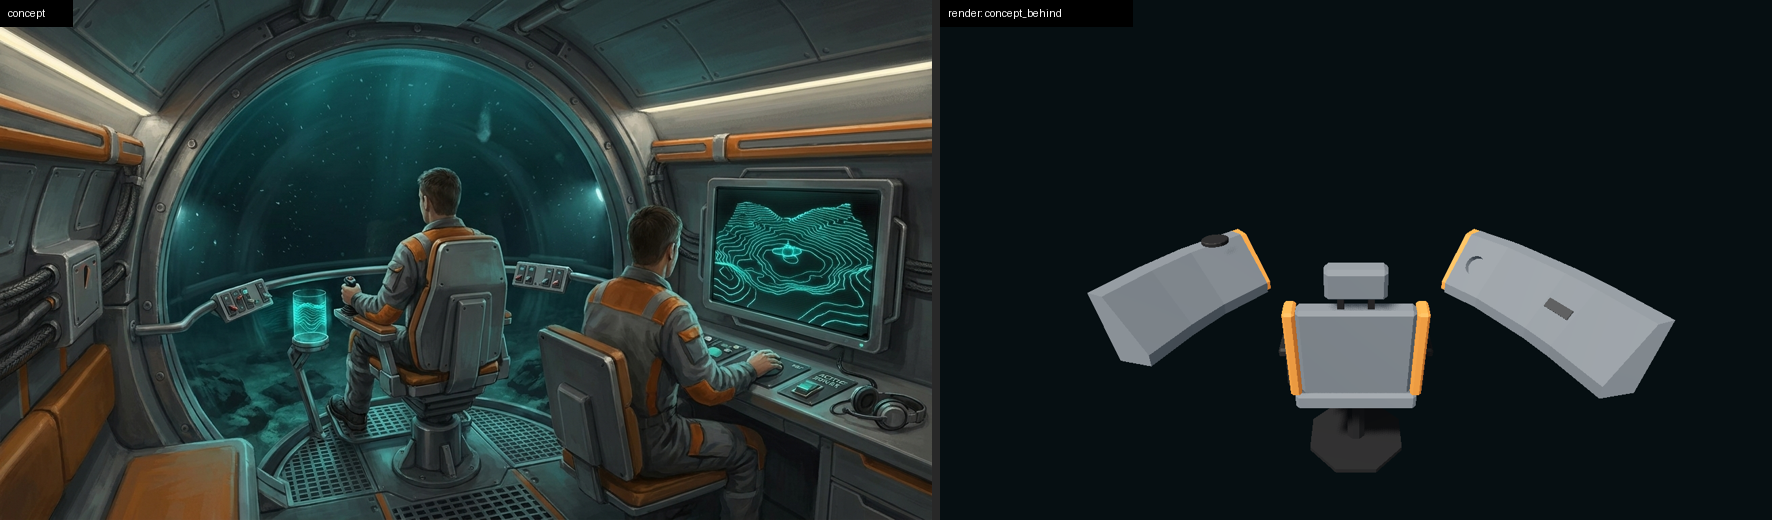
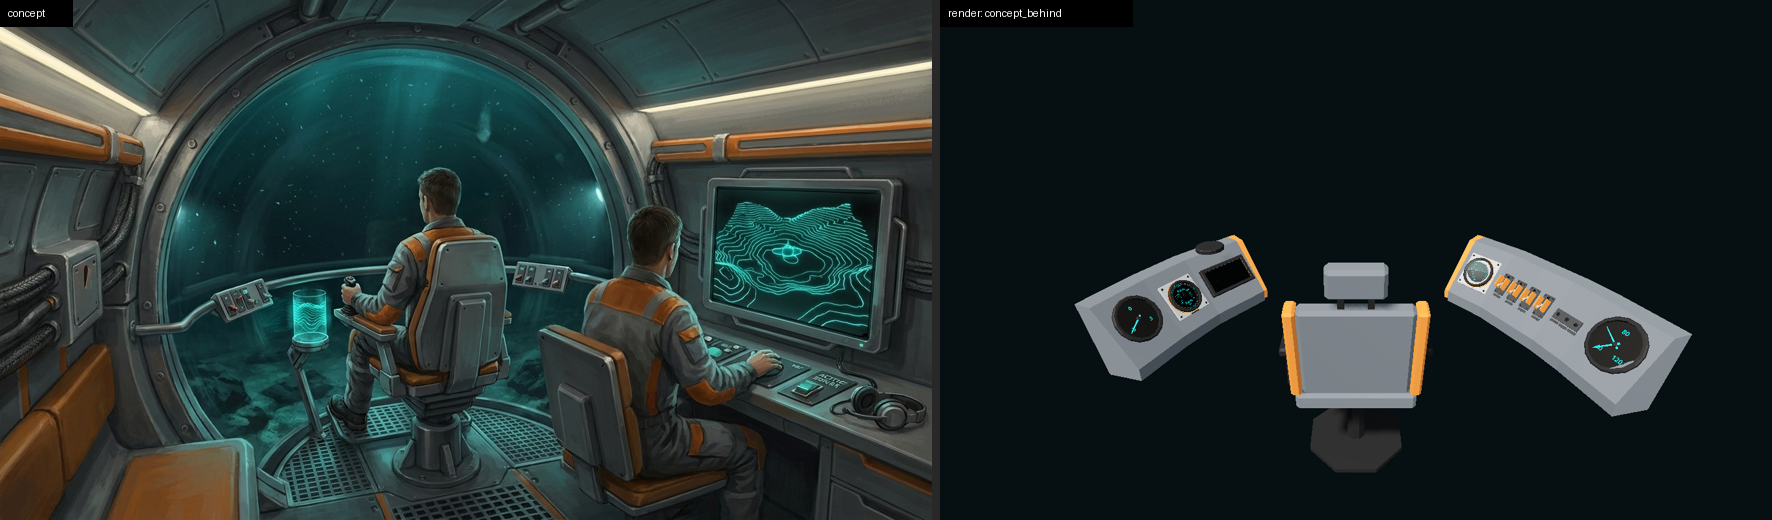
M12.45 · pilot_station: instruments and checks
Refs #482

Changed region(s): [[0.807, 0.4308, 0.9622, 0.8], [0.5897, 0.4308, 0.7139, 0.7385]]

diff --git a/tools/cadkit/scenes/pilot_station.py b/tools/cadkit/scenes/pilot_station.py
@@ -20,12 +20,12 @@ import numpy as np
 from cadkit import library
 from cadkit.solids import Solid, at, expect, export_solids_glb, prism
 from cadkit.library import entry, note, out_dir, res, scene_module, scene_path, write_entry
-from cadkit.tscn import Scene, Xform
+from cadkit.tscn import NodePath, Scene, SName, Xform
 
 SLUG, GROUP = "pilot_station", "stations"
 USES: list[str] = ["pilot_seat", "operator_seat", "joystick", "multidisplay", "navball", "depth_finder", "gauge",
                    "guarded_toggle", "indicator_lamp"]
-TRIANGLE_BUDGET = 12000
+TRIANGLE_BUDGET = 15000     # approved on #482 (the station comes to about 14,300): recorded in the entry
 
 # --- where the station sits in the hull (the program's pilot position and the cockpit floor), mm
 HULL_Z0 = -3900.0          # program.yaml `pilot` z: the seat's origin
@@ -56,7 +56,24 @@ HOLO_BASE_R, HOLO_BASE_H, HOLO_BASE_D = 75.0, 22.0, -30.0    # projector pad: ra
 SPEED_R, NOISE_R = 0.10, 0.11      # gauge radii, m
 TOGGLE_PITCH, LAMP_PITCH = 84.0, 50.0
 LAMP_PLATE_T = 8.0
-BORE_D, BORE_SIDES = 36.0, 24      # the navball's bore into the fascia: depth (keep_clear 34) and sides
+BORE_D, BORE_SIDES = 36.0, 24
+PLATE_W, PLATE_H, PLATE_T = 44.0, 12.0, 2.5       # engraved label plate
+PLATE_DROP_TOGGLE = 58.0 + 12.0     # centre of a toggle's plate below its origin: half its 116 mm base and a margin
+PLATE_DROP_LAMP = 25.0 + 12.0       # below the lamps' 50 mm dark plate      # the navball's bore into the fascia: depth (keep_clear 34) and sides
+
+
+# --- what each instrument is set to (tier-1 instance settings), and the lamp drivers (readout, threshold, threshold_of, above)
+SETTINGS: dict[str, dict] = {
+    # speed (m/s, primary) and throttle (engine_output, -1..+1, secondary), the scale +/- the physics model's top speed (#475)
+    "SpeedGauge": {"title": "SPEED m/s", "readout": SName("speed"), "readout_b": SName("engine_output"),
+                   "scale_readout": SName("top_speed"), "min_value": -3.0, "max_value": 3.0, "sweep_deg": 240.0,
+                   "major_divisions": 6},
+}
+TOGGLE_LABELS = {"ExternalLightSwitch": "external light", "ExternalColourSwitch": "external light colour",
+                 "CabinLightSwitch": "cabin light", "CabinColourSwitch": "cabin light colour"}
+LAMP_DRIVERS = {"BilgeLamp": ("bilge_water_t", 0.25, "bilge_limit", True),     # a quarter of max_surfaceable_bilge_t()
+                "Co2Lamp": ("", 0.0, "", True),                                  # no CO2 simulation yet: never lit
+                "LowO2Lamp": ("", 0.0, "", False)}                               # no O2 simulation yet: never lit
 
 
 def _gauge_extent(radius_m: float) -> tuple[float, float, float]:
@@ -323,23 +340,38 @@ def anchors(wings: dict[str, Wing]) -> dict[str, dict]:
     sw, lamp = entry("guarded_toggle"), entry("indicator_lamp")
     out: dict[str, dict] = {}
 
-    def add(name, side, facet, slug, w, h, along=0.0, up=0.0, o=0.0, **settings):
+    def add(name, side, facet, slug, w, h, along=0.0, up=0.0, o=0.0, y_range=None, **settings):
         out[name] = {"wing": side, "facet": facet, "slug": slug, "along": along, "up": up, "out": o, "size": (w, h),
+                     "y_range": y_range or (-h / 2, h / 2),
                      "stand_out": entry(slug).get("stand_out_mm") or entry(slug)["depth_mm"]["in_front_of_origin"], "settings": settings}
 
     df, md = entry("depth_finder"), entry("multidisplay")
     add("DepthFinder", "left", 1, "depth_finder", *df["footprint_mm"])
     add("Multidisplay", "left", 2, "multidisplay", *md["footprint_mm"])
     sp, _t, sb = _gauge_extent(SPEED_R)
-    add("SpeedGauge", "left", 3, "gauge", 2 * sp, _t + sb, up=(sb - _t) / 2, radius=SPEED_R)
+    add("SpeedGauge", "left", 3, "gauge", 2 * sp, _t + sb, up=(sb - _t) / 2, y_range=(-sb, _t), radius=SPEED_R)
     add("Navball", "right", 1, "navball", *entry("navball")["footprint_mm"])
     for k, name in enumerate(("ExternalLightSwitch", "ExternalColourSwitch", "CabinLightSwitch", "CabinColourSwitch")):
         add(name, "right", 2, "guarded_toggle", *sw["footprint_mm"], along=(k - 1.5) * TOGGLE_PITCH)
     for k, name in enumerate(("BilgeLamp", "Co2Lamp", "LowO2Lamp")):
         add(name, "right", 3, "indicator_lamp", *lamp["footprint_mm"], along=(k - 1) * LAMP_PITCH, o=LAMP_PLATE_T)
     nb, nt, nbot = _gauge_extent(NOISE_R)
-    add("NoiseRepeater", "right", 4, "gauge", 2 * nb, nt + nbot, up=(nbot - nt) / 2, radius=NOISE_R)
+    add("NoiseRepeater", "right", 4, "gauge", 2 * nb, nt + nbot, up=(nbot - nt) / 2, y_range=(-nbot, nt), radius=NOISE_R)
     return out
+
+
+def envelope(wings: dict[str, Wing], a: dict) -> np.ndarray:
+    """The eight corners (mm) of an instrument's box: its footprint across the facet and up the slope, from the face to its
+    stand-out (the lamps' plate included)."""
+    x, y, z, o = anchor_frame(wings, a)
+    wd = a["size"][0]
+    lo, hi = a["y_range"]
+    out = []
+    for sx in (-wd / 2, wd / 2):
+        for sy in (lo, hi):
+            for sz in (-a["out"], a["stand_out"]):
+                out.append(o + sx * x + sy * y + sz * z)
+    return np.array(out)
 
 
 def anchor_frame(wings: dict[str, Wing], a: dict) -> tuple[np.ndarray, np.ndarray, np.ndarray, np.ndarray]:
@@ -378,6 +410,17 @@ def solids() -> tuple[list[Solid], dict]:
     lp = box_plate(2 * LAMP_PITCH + entry("indicator_lamp")["footprint_mm"][0] + 20.0, 50.0, LAMP_PLATE_T).moved(_loc(o, x, z))
     out.append(Solid(lp, "interior_dark"))
     shapes["lamp_plate"] = lp
+    # engraved label plates under each toggle and lamp: shapes only, no text (art direction)
+    an = anchors(wings)
+    for name, a in an.items():
+        if a["slug"] not in ("guarded_toggle", "indicator_lamp"):
+            continue
+        x, y, z, o = anchor_frame(wings, a)
+        drop = (PLATE_DROP_TOGGLE if a["slug"] == "guarded_toggle" else PLATE_DROP_LAMP)
+        centre = o - y * drop - z * a["out"]
+        pl = label_plate()
+        out.append(Solid(pl.moved(_loc(centre, x, z)), "interior_dark"))
+        shapes[f"plate.{name}"] = pl.moved(_loc(centre, x, z))
     # the hologram's pad on the left wing's top
     ho, hx = hologram_frame(wings["left"])
     pad = prism(16, HOLO_BASE_R, HOLO_BASE_H, chamfer_top=4.0).moved(_loc(ho - np.array([0.0, HOLO_BASE_H, 0.0]), hx, np.array([0.0, 1.0, 0.0])))
@@ -385,6 +428,16 @@ def solids() -> tuple[list[Solid], dict]:
     shapes["hologram_pad"] = pad
     figures = _check(wings, shapes, ho)
     return out, {"wings": wings, "shapes": shapes, "figures": figures, "holo": ho}
+
+
+def label_plate() -> bd.Shape:
+    """An engraved label plate: a thin dark plate with two grooves cut into it (a long bar and a short one)."""
+    pl = box_plate(PLATE_W, PLATE_H, PLATE_T)
+    for dx, w in ((-4.0, 22.0), (14.0, 8.0)):
+        groove = bd.Box(w, 2.0, 1.2, align=(bd.Align.CENTER, bd.Align.CENTER, bd.Align.MIN)).moved(
+            bd.Location((dx, 0.0, PLATE_T - 0.8)))
+        pl = pl - groove
+    return pl
 
 
 def box_plate(w: float, h: float, t: float) -> bd.Shape:
@@ -493,6 +546,31 @@ def _check(wings: dict[str, Wing], shapes: dict[str, bd.Shape], holo: np.ndarray
         to_eye /= np.linalg.norm(to_eye)
         expect(float(z @ to_eye) >= 0.55, f"{name}'s face is within 57 degrees of the line to the eye")
         reach[name] = round(float(np.linalg.norm(o - EYE_MM)))
+    # --- every instrument's whole envelope (its footprint box out to its stand-out): inside the wing, clear of its
+    # neighbours, short of the glass, off the gap and below the eye's horizon
+    boxes = {name: envelope(wings, a) for name, a in an.items()}
+    for name, c in boxes.items():
+        for q in c:
+            expect(inside_dome(q[0], q[1], q[2]), f"{name}'s envelope is inside the dome at {q.round(0)}")
+        d = float(np.min(np.linalg.norm(cloud[None, :, :] - c[:, None, :], axis=2)))
+        expect(d >= 20.0, f"{name}'s envelope stays clear of the glass ({d:.0f} mm, 20 needed)")
+        side = an[name]["wing"]
+        gx = np.abs(c[:, 0]).min()
+        expect(gx >= GAP / 2 + 0.5 and (c[:, 0] < 0).all() == (side == "left"),
+               f"{name} is on its own wing, clear of the gap ({gx:.0f} mm from the centreline, gap edge {GAP / 2:.0f})")
+        dd = c - EYE_MM
+        elev = float(np.degrees(np.arctan2(dd[:, 1], np.hypot(dd[:, 0], dd[:, 2]))).max())
+        expect(elev <= -5.0, f"{name}'s highest point is {-elev:.0f} degrees below the eye's horizon (5 or more)")
+        expect(c[:, 1].max() <= holo_top, f"{name}'s envelope stays below the hologram's top ({c[:, 1].max():.0f} mm)")
+    names = list(an)
+    for i, n1 in enumerate(names):
+        for n2 in names[i + 1:]:
+            if an[n1]["wing"] != an[n2]["wing"] or an[n1]["facet"] != an[n2]["facet"]:
+                continue
+            x1, _, _, o1 = anchor_frame(wings, an[n1])
+            x2, _, _, o2 = anchor_frame(wings, an[n2])
+            gap = abs(float((o2 - o1) @ x1)) - an[n1]["size"][0] / 2 - an[n2]["size"][0] / 2
+            expect(gap >= 8.0, f"{n1} and {n2} are {gap:.0f} mm apart on their facet (8 needed)")
     # the four guarded toggles are reached by the seated hand resting on its armrest, at the joystick (#482, #528)
     pm_ = scene_module("pilot_seat")
     arm_x_ = scene_module("operator_seat").ARM_X
@@ -500,8 +578,9 @@ def _check(wings: dict[str, Wing], shapes: dict[str, bd.Shape], holo: np.ndarray
     toggles = ["ExternalLightSwitch", "ExternalColourSwitch", "CabinLightSwitch", "CabinColourSwitch"]
     hand_reach = {}
     for name in toggles:
-        o = anchor_frame(wings, an[name])[3]
-        hand_reach[name] = round(min(float(np.linalg.norm(o - h)) for h in hands))
+        _x, _y, z_, o = anchor_frame(wings, an[name])
+        tip = o + z_ * an[name]["stand_out"]          # the bat's reach at its guard: the worse of the base and this point
+        hand_reach[name] = round(max(min(float(np.linalg.norm(p - h)) for h in hands) for p in (o, tip)))
         expect(hand_reach[name] <= REACH_MM, f"{name} is {hand_reach[name]} mm from the nearer resting hand (reach {REACH_MM:.0f} mm)")
     order = {"left": ["DepthFinder", "Multidisplay", "SpeedGauge"],
              "right": ["Navball", "ExternalLightSwitch", "BilgeLamp", "NoiseRepeater"]}
@@ -527,14 +606,30 @@ def build() -> dict:
     shell_tris = rep["triangles"] + seat_tris
     an = anchors(wings)
     inst = sum(entry(a["slug"])["triangles"] for a in an.values())
-    expect(shell_tris <= TRIANGLE_BUDGET - 1000, f"shell and seat ({shell_tris} triangles) leave room under {TRIANGLE_BUDGET}")
+    total = shell_tris + inst
+    expect(total <= TRIANGLE_BUDGET, f"the whole station ({total} triangles: shell and seat {shell_tris}, instruments {inst}) is within {TRIANGLE_BUDGET}")
     s = Scene("PilotStation")
     s.node("Seat", instance=scene_path("pilot_seat"))
     s.node("Strip", instance=rep["glb"])
     s.node("Anchors")
+    s.node("Drivers")
     for name, a in an.items():
         x, y, z, o = anchor_frame(wings, a)
-        s.node(name, parent="Anchors", props={"transform": Xform.frame(x, y, z, tuple(o / 1000.0))})
+        props = {"transform": Xform.frame(x, y, z, tuple(o / 1000.0))}
+        props.update(SETTINGS.get(name, {}))
+        if a["slug"] == "guarded_toggle":
+            props["label"] = TOGGLE_LABELS[name]
+        if a["slug"] == "gauge":
+            props["radius"] = a["settings"]["radius"]
+        inst_path = "res://src/noise/noise_gauge.tscn" if name == "NoiseRepeater" else scene_path(a["slug"])
+        s.node(name, parent="Anchors", instance=inst_path, props=props)
+    for lamp, (readout, threshold, of, above) in LAMP_DRIVERS.items():
+        props = {"lamp": NodePath(f"../../Anchors/{lamp}"), "above": above}
+        if readout:
+            props.update({"readout": SName(readout), "threshold": threshold})
+            if of:
+                props["threshold_of"] = SName(of)
+        s.node(f"{lamp}Driver", parent="Drivers", type_="Node", script="res://src/interact/threshold_lamp.gd", props=props)
     ho = holo
     hx = hologram_frame(wings["left"])[1]
     s.node("HologramAnchor", parent="Anchors",
@@ -546,8 +641,9 @@ def build() -> dict:
         "summary": "Pilot's station: the pilot seat on the centreline facing -Z, and one knee-height instrument strip low against the "
                    "dome in two faceted wings with orange end caps either side of a clear gap (600 mm). Marked anchors for every "
                    "instrument (left wing from the gap outward: depth finder with the hologram above it, multidisplay, speed gauge; "
-                   "right wing: navball, four light switches, three warning lamps, noise repeater). Shell and seat only: the "
-                   "instruments are placed by the next arc.",
+                   "right wing: navball, four light switches, three warning lamps, noise repeater). Every instrument is placed: "
+                   "the scenes sit at the anchors, the lamps have ThresholdLamp drivers (bilge wired; CO2 and O2 unwired), the "
+                   "speed gauge's scale follows the sub's top speed, and each toggle and lamp has an engraved label plate.",
         "tags": ["station", "pilot", "strip", "dome", "helm", "seat"],
         "scene": res(d / f"{SLUG}.tscn"),
         "behaviour": {"script": None,
@@ -555,7 +651,10 @@ def build() -> dict:
                                "anchors": "Anchors/<name> (Node3D; mount frame: +Z out of the fascia, +Y up the slope, +X toward the pilot's right)",
                                "left_wing": "DepthFinder, Multidisplay, SpeedGauge (from the gap outward); HologramAnchor above the depth finder, standing up",
                                "right_wing": "Navball, ExternalLightSwitch, ExternalColourSwitch, CabinLightSwitch, CabinColourSwitch, "
-                                             "BilgeLamp, Co2Lamp, LowO2Lamp (on a dark plate, 8 mm proud: mount their lamps at the anchor), NoiseRepeater"}},
+                                             "BilgeLamp, Co2Lamp, LowO2Lamp (on a dark plate, 8 mm proud), NoiseRepeater",
+                               "instances": "each Anchors/<name> is the instrument's scene (lamps, switches, gauges, navball, depth "
+                                            "finder, multidisplay); Drivers/<Lamp>Driver are ThresholdLamps; the four switches are not "
+                                            "yet wired to the headlight and cabin lights (the placement arc does that)"}},
         "footprint_mm": [round(float(2 * max(abs(w.joints[-1][0]) for w in wings.values()))), round(float(-min(w.joints[0][1] for w in wings.values()) + 400))],
         "mount": "floor at Y=0, seat origin on the centreline at X=0, Z=0; the pilot faces -Z; the strip is ahead at -Z",
         "placement": {"hull_z_m": HULL_Z0 / 1000.0, "hull_floor_y_m": HULL_Y0 / 1000.0,
@@ -563,12 +662,12 @@ def build() -> dict:
         "seated_eye_height_m": float(EYE_MM[1] / 1000.0),
         "context": ["dome glass and rim ring of assets/models/vehicles/sub_interior (checked against, not built)"],
         "uses": list(USES),
-        "triangles": shell_tris,
-        "triangles_by_part": {"strip": rep["triangles"], "pilot_seat": seat_tris},
-        "triangles_with_instruments": shell_tris + inst,
+        "triangles": total,
+        "triangle_budget": TRIANGLE_BUDGET,
+        "triangles_by_part": {"strip": rep["triangles"], "pilot_seat": seat_tris, "instruments": inst},
         "checks": fig,
     })
-    return {"slug": SLUG, "triangles": shell_tris, "strip": rep["triangles"]}
+    return {"slug": SLUG, "triangles": total, "strip": rep["triangles"]}
 
 
 def _cameras(d) -> None:
